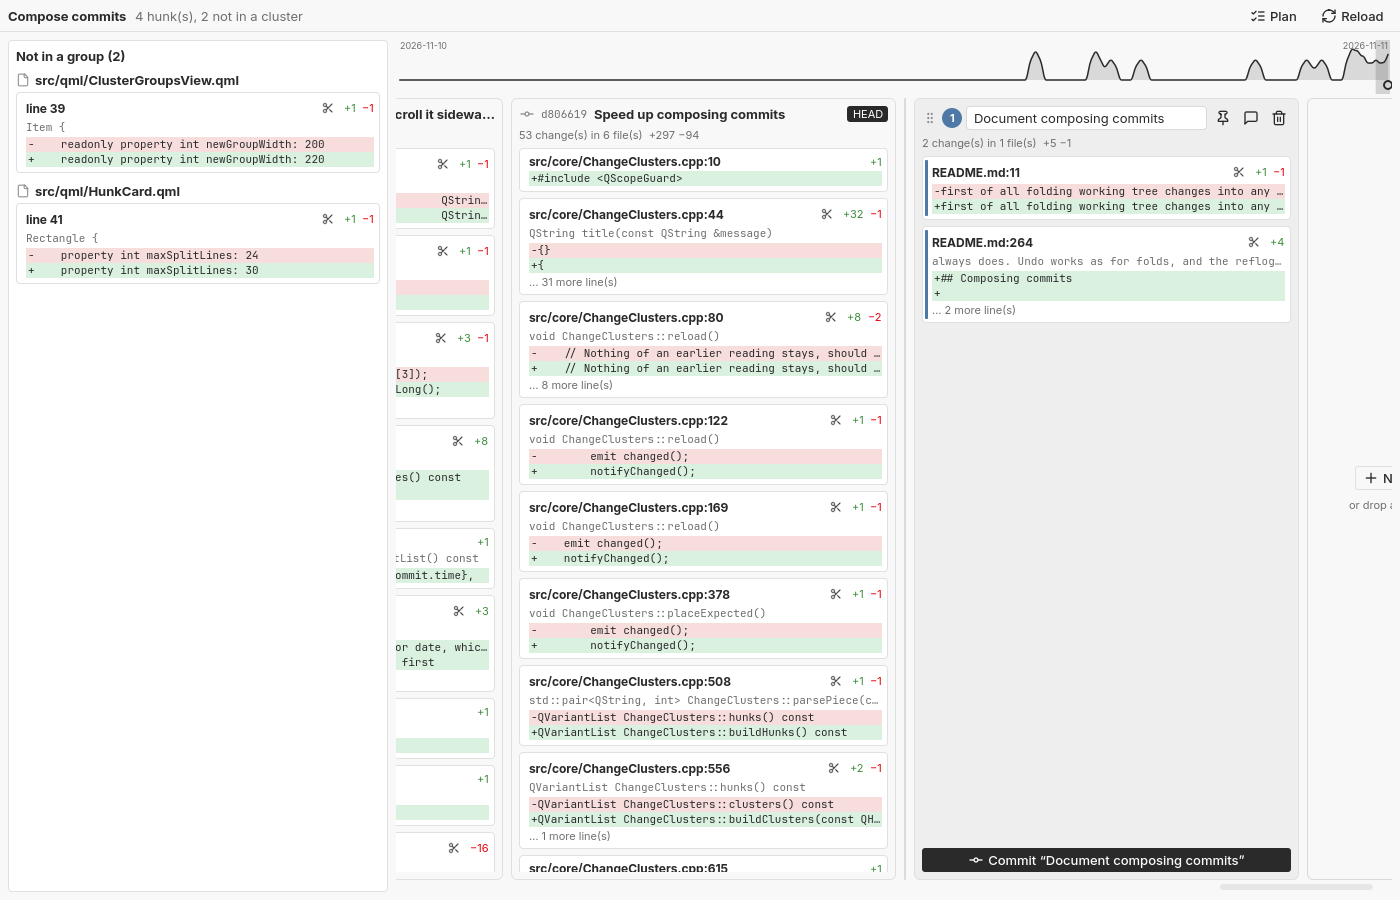
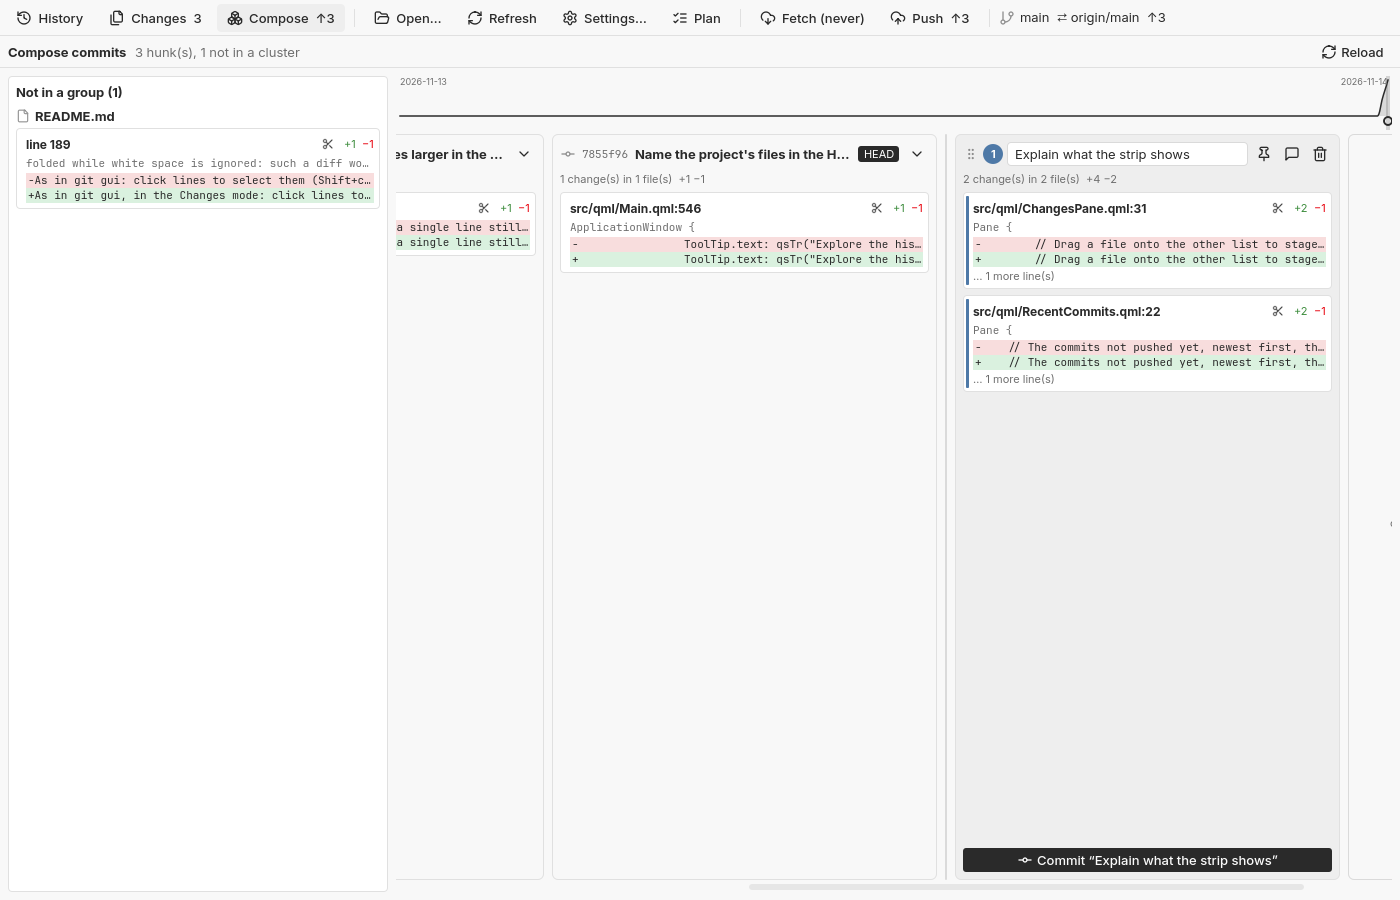
Show the three modes in the README and on the site
The README, the site and their screenshots still showed the window as
one view, with the history above the changes and folding by a drag into
the graph.

The README describes the modes in a section of its own, and its
sections on the history, staging, folding, editing the history and
composing say where each now is. The site says what the modes are for,
with folding onto the strip as its picture. The screenshots of the
history, the themes, folding, composing and the merge tool show the
modes, from a copy of igitt with commits not pushed yet and changes.

diff --git a/pages/index.html b/pages/index.html
@@ -108,9 +108,9 @@
   <header>
     <img src="igitt.svg" alt="">
     <h1>igitt</h1>
-    <p class="tagline">A git tool combining what gitk and git gui do, which also folds
-      changes into any earlier commit and edits the history without touching
-      the working tree.</p>
+    <p class="tagline">A git tool combining what gitk and git gui do, each in a mode of
+      its own, which also folds changes into the commits not pushed yet and edits
+      the history without touching the working tree.</p>
     <div class="buttons">
       <a class="button primary" href="https://github.com/iam-peter/igitt/releases/latest">Download</a>
       <a class="button" href="https://github.com/iam-peter/igitt/releases/tag/nightly">Nightly</a>
@@ -119,14 +119,15 @@
   </header>
 
   <img class="shot" src="history.png" width="1400" height="900"
-       alt="The history of igitt itself, with uncommitted changes selected and the commit they belong in tagged fold here">
+       alt="igitt's own history in the History mode: the graph above, the project's files and the diff of the commit picked below">
 
   <h2>What it does</h2>
   <ul class="features">
+    <li>Explore, commit and rework in three modes: History, Changes and Compose.</li>
     <li>Browse the history of every branch as a graph and search it.</li>
     <li>Step through every revision of a file in the time-lapse view, each line blamed, and see its whole history flow from revision to revision.</li>
     <li>Stage and commit single lines, hunks or files.</li>
-    <li>Drag changes onto any earlier commit to fold them in, with a suggestion where they belong.</li>
+    <li>Drag changes onto a commit not pushed yet to fold them in, with a suggestion where they belong.</li>
     <li>Reword, move, squash and drop commits like <code>git rebase -i</code>, without touching the working tree.</li>
     <li>Compose several commits at once: drag changes, or single lines of them, into groups, fold them into commits not merged yet, or take them out again.</li>
     <li>Resolve conflicts with ours and theirs side by side, picking each conflict's lines.</li>
@@ -134,15 +135,27 @@
     <li>Pick a theme: Light, Dark, Dracula, Alucard, the four Catppuccin flavors, or one of your own.</li>
   </ul>
 
+  <h2>Three modes</h2>
+  <p>History explores, as gitk does: the commit graph above, the project's files and
+    the diff of what you pick below. Changes commits, as git gui does: the changed
+    files and the commit form beside their diff, under a strip of the commits not
+    pushed yet. Drop selected lines or a whole file on one of those commits to fold
+    them in; igitt tags the commit they most likely belong in. Compose reworks those
+    commits together with the changes. Switch with the tool bar or Ctrl+1, 2 and 3.
+    <a href="https://github.com/iam-peter/igitt#modes">More in the README</a>.</p>
+  <img class="shot" src="fold-drag.png" width="1400" height="900" loading="lazy"
+       alt="The Changes mode: selected lines dragged onto the commit of the strip they belong in, tagged fold here">
+
   <h2>Composing commits</h2>
-  <p>The compose window puts commits together by what they are about rather than by
+  <p>The Compose mode puts commits together by what they are about rather than by
     file. Every changed line is a card; drag cards into groups, one per commit, each
     with its own message, and split a hunk by dragging over its lines. Scrolled to the
-    left are the commits of the branch not merged yet: drop a change onto one to fold
-    it in, or drag one of its changes back out into a group or onto another commit.
-    A timeline above shows where you are. <a href="https://github.com/iam-peter/igitt#composing-commits">More in the README</a>.</p>
+    left are the commits of the branch not pushed yet: drop a change onto one to fold
+    it in, drag one of its changes back out into a group or onto another commit, or
+    reword, move, squash and drop it from its menu. A timeline above shows where you
+    are. <a href="https://github.com/iam-peter/igitt#composing-commits">More in the README</a>.</p>
   <img class="shot" src="compose.png" width="1400" height="900" loading="lazy"
-       alt="The compose window: commits not merged yet beside a group of changes, with the timeline above them">
+       alt="The Compose mode: the commits not pushed yet beside a group of changes, with the timeline above them">
 
   <h2>A file's history</h2>
   <p>Switch on Flow in the time-lapse view to see a file's whole history at once, as a

diff --git a/README.md b/README.md
@@ -7,13 +7,13 @@
 <p align="center"><a href="https://iam-peter.github.io/igitt/">iam-peter.github.io/igitt</a></p>
 
 A Qt Quick git tool combining what gitk (history browsing) and git gui
-(staging and committing) do, plus the operations neither of them offers —
-first of all folding working tree changes into any earlier commit,
-editing the history like `git rebase -i` without touching the working
-tree, and composing several commits at once from groups of related
-changes.
+(staging and committing) do, each in a mode of its own, plus the
+operations neither of them offers — first of all folding working tree
+changes into the commits not pushed yet, editing the history like `git
+rebase -i` without touching the working tree, and composing several
+commits at once from groups of related changes.
 
-![The history of igitt itself, with uncommitted changes to a test selected and the commit they belong in tagged "fold here"](docs/screenshots/history.png)
+![igitt's own history in the History mode: the graph above, the project's files and the diff of the commit picked below](docs/screenshots/history.png)
 
 ## Download
 
@@ -77,9 +77,29 @@ writes never overlap, and every read sees the writes queued before it. Only
 the UI thread touches the models, applying each job's result when it
 arrives; results for a diff the user has already left are dropped.
 
+## Modes
+
+The window has a mode for each job, picked at the left of the tool bar or
+with Ctrl+1, Ctrl+2 and Ctrl+3:
+
+- **History** explores, as gitk does: the commit graph above, and below
+  it the project's files beside the diff of the commit or file picked.
+- **Changes** commits, as git gui does: the changed files and the commit
+  form beside their diff, under a strip of the commits not pushed yet.
+  Changes are folded into those commits by dropping them on the strip.
+- **Compose** reworks the commits not pushed yet together with the
+  changes: groups of changes become commits, changes move between
+  commits, and commits are reworded, moved, squashed and dropped.
+
+The tool bar counts the changed files and the commits not pushed yet.
+The modes lead into each other: the uncommitted changes on top of the
+graph open Changes, a commit of the strip opens History, and a commit's
+**Edit in Compose** shows it in Compose. Each mode keeps its own diff,
+and the window opens on Changes when there are any.
+
 ## History
 
-The commit graph follows GitKraken's and GitLens': branch and tag labels in their own
+In the History mode, the commit graph follows GitKraken's and GitLens': branch and tag labels in their own
 column, colored like their lane and linked to the commit; commits drawn
 with the author's initials; uncommitted changes as a "// WIP" row on top,
 connected to HEAD; and a Changes column with the number of files and a
@@ -90,13 +110,15 @@ commits over time, the rows on screen and the selection; click it to
 jump. The search takes `author:`, `message:` and `sha:`, quoted phrases,
 and optional case-sensitive or regular-expression matching; Enter and
 Shift+Enter jump between matches. The scope selector limits the graph to
-the current branch.
+the current branch. Beside the diff, the project's files can be filtered
+by name; clicking one shows it, double-clicking opens its time-lapse.
 
 ## Time-lapse view
 
-Open a file's Time-lapse View from the **Files** tab (double-click a file
-of the project tree, or filter it by name first), or right-click a file
-in the change lists or a file header in any diff. It is modelled on Perforce's: a slider through every revision
+Open a file's Time-lapse View from the project's files in the History
+mode (double-click a file of the project tree, or filter it by name
+first), or right-click a file in the change lists or a file header in
+any diff. It is modelled on Perforce's: a slider through every revision
 of the file (following renames), and the file as it was at that revision
 with each line blamed to the revision that last changed it, shaded by
 age. The lines the revision added are green, the ones it edited orange,
@@ -171,7 +193,7 @@ trailers like Change-Id included.
 
 ## Reading diffs
 
-Diffs and files from the Files tab are highlighted: with KSyntaxHighlighting
+Diffs and the project's files are highlighted: with KSyntaxHighlighting
 when igitt is built with it, otherwise by a small built-in highlighter for
 C++, QML/JavaScript, CMake, Python and Markdown. Where a removed line is
 followed by its replacement, the words that changed are marked more
@@ -186,7 +208,7 @@ folded while white space is ignored: such a diff would not apply back.
 
 ## Staging
 
-As in git gui: click lines to select them (Shift+click for a range, a hunk
+In the Changes mode, as in git gui: click lines to select them (Shift+click for a range, a hunk
 header for the whole hunk) and stage or unstage the selection, or
 right-click a line for Stage Hunk and Stage Line. Double-click a file, or
 click its status badge, to stage or unstage all of it.
@@ -214,11 +236,14 @@ included. Staging a file records the file as it was at that moment.
 
 ## Folding changes into an earlier commit
 
-![Selected lines being dragged onto the commit they belong in](docs/screenshots/fold-drag.png)
+![The Changes mode: selected lines dragged onto the commit of the strip they belong in, tagged "fold here"](docs/screenshots/fold-drag.png)
 
-Select lines in the unstaged or staged diff, then drag the "Drag onto a
-commit to fold" handle onto a commit in the history, or right-click the
-commit. This is the interactive form of `git commit --fixup=<sha>` followed
+In the Changes mode, select lines in the unstaged or staged diff, then
+drag the "Drag onto a commit to fold" handle onto a commit in the strip
+above, which lists the commits not pushed yet and the pushed one they
+stand on. A file dragged out of the change lists onto a commit folds all
+its lines. The commit under the pointer turns green, or red with the
+reason where it cannot take the fold. This is the interactive form of `git commit --fixup=<sha>` followed
 by `git rebase -i --autosquash <sha>~`, done by `FoldEngine` without
 touching the working tree:
 
@@ -242,7 +267,7 @@ way `git absorb` does: `FoldSuggester` blames the lines each change modifies
 or borders and picks the newest local commit among them, since folding into
 an older one would conflict with it. Local commits are those after the
 merge base with the upstream branch and after the last merge commit. The
-suggested commit is tagged "fold here" in the history, and "Fold into
+suggested commit is tagged "fold here" in the strip, and "Fold into
 suggested" folds into it. A selection spanning several commits, or touching
 lines that are only staged, gets no suggestion, with the reason shown
 instead.
@@ -253,11 +278,13 @@ other branches that point into the rewritten range (like `rebase
 
 ## Editing the history
 
-Right-click a commit for **Reword…**, **Move Up**, **Move Down**,
-**Squash into Previous**, **Fix Up into Previous** (keeping only the
-previous commit's message) and **Drop…**, or drag a commit onto another
-one to move it there. This is `git rebase -i` done by `HistoryEditor`, the
-same way folds are done:
+In the Compose mode, each commit's column has a menu, from the button
+beside its subject or a right-click on its header: **Reword…**, **Move
+Earlier**, **Move Later**, **Squash into the One Before**, **Fix Up into
+the One Before** (keeping only the earlier commit's message) and
+**Drop…**. A commit a remote branch has, or one an edit cannot reach,
+says why not. This is `git rebase -i` done by `HistoryEditor`, the same
+way folds are done:
 
 1. Replay the commits from the oldest one the edit affects up to HEAD in
    their new order, each with `git merge-tree --write-tree
@@ -279,10 +306,10 @@ itself can be reworded.
 
 ## Composing commits
 
-![Commits not merged yet beside a group of changes, with the timeline above them](docs/screenshots/compose.png)
+![The Compose mode: the commits not pushed yet beside a group of changes, with the timeline above them](docs/screenshots/compose.png)
 
-**Compose** in the tool bar opens a window that puts commits together by
-what they are about rather than by file. Every changed line between HEAD
+The Compose mode puts commits together by what they are about rather
+than by file. Every changed line between HEAD
 and the working tree, staged or not and untracked files too, is a card on
 the left. Drag cards into groups, one per commit to be: a group has a
 title and a whole message, written as in the commit form, and is
